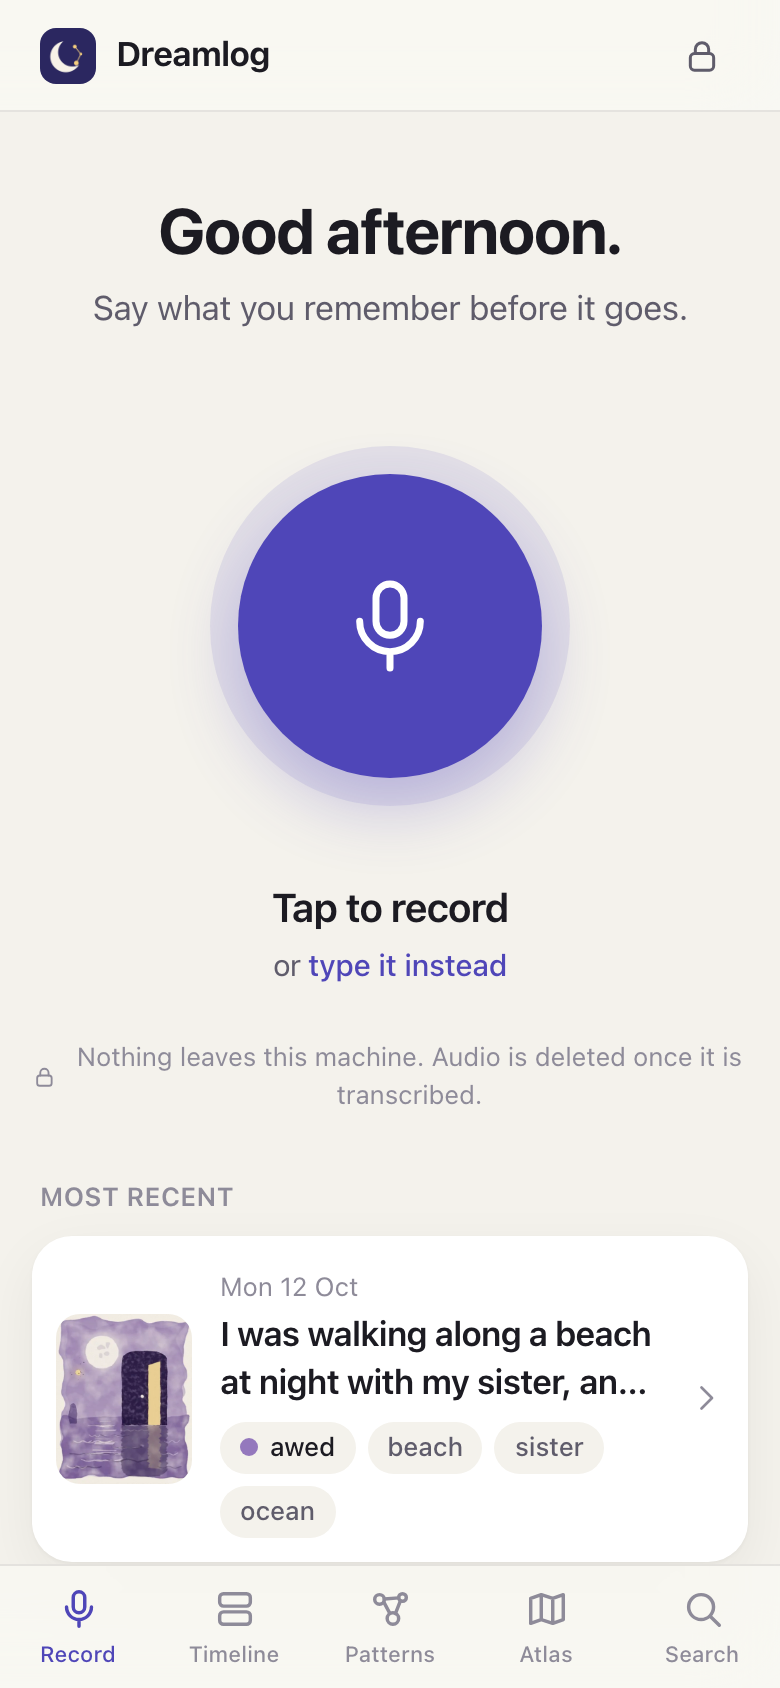
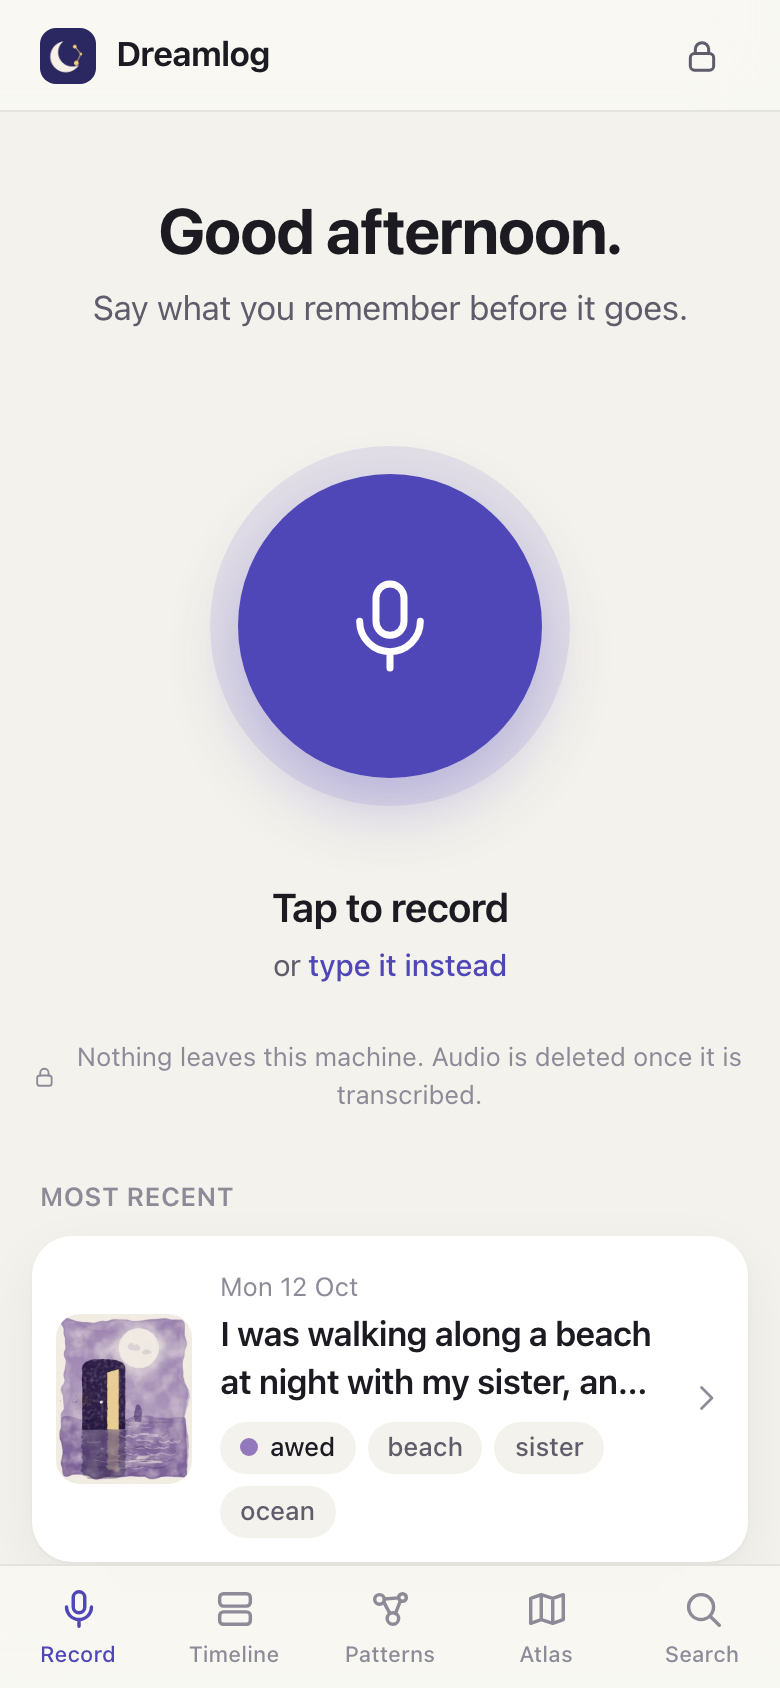
Bind the web server to localhost, refresh the demo and screenshots, and write up the measurements

Changed region(s): [[0.0615, 0.7701, 0.2462, 0.8934]]

diff --git a/NOTES_FOR_README.md b/NOTES_FOR_README.md
@@ -1,0 +1,121 @@
+# Notes for the README
+
+Facts for whoever writes the README. Every number here was measured in the build session on 2026-10-12, on an Apple M5 Pro with 24 GB running macOS 26.5.1, while other projects were building on the same machine (load average around 20 at the end). The command behind each number is given.
+
+## Quickstart
+
+- One command: `make dev`, then open http://localhost:4104.
+- Needs: Docker (for Postgres), Python 3.12, Node 22, make. Nothing else, no keys.
+- What it does: creates `.venv` and installs `api/requirements-dev.txt`, runs `npm ci` in `web/`, starts `pgvector/pgvector:pg16` with plain `docker run` as container `dreamlog-db`, starts the API and the web dev server.
+- Measured from a fresh `git clone` into an empty directory with no container and no model cache: 73 seconds from `make dev` to `/api/health` reporting `models_ready: true`. That includes pip, npm, creating the database container and downloading both models (228 MB in `.cache/models`).
+- `make test` in that same fresh clone: 76 Python tests in 110.6 s, then typecheck and 21 web tests. 97 tests, all passing.
+- `npm run build` in the fresh clone succeeds (9 routes).
+- `make help` lists the other targets: `test-fast`, `lint`, `seed`, `art`, `demo`, `shots`, `stop`, `clean`.
+- Why `make dev` and not `docker compose up`: this machine runs Docker through colima with no compose plugin (`docker: unknown command: docker compose`), so compose could not be tested. A `docker-compose.yml` for the database alone is included and says in its header that it has not been run.
+
+## Ports
+
+- Web 4104 (`WEB_PORT`), API 8104 (`API_PORT`), Postgres 5504 on the host (`DB_PORT`). All three bind to 127.0.0.1.
+- The browser only talks to 4104. `/api/*` is rewritten to the API by `web/next.config.ts`.
+
+## Environment variables
+
+All optional. `.env.example` has every one with its default.
+
+- `WEB_PORT`, `API_PORT`, `DB_PORT`, `WEB_HOST` (default 127.0.0.1), `DREAMLOG_API_URL`
+- `DREAMLOG_DATABASE_URL`, `DREAMLOG_TEST_DATABASE_URL`
+- `DREAMLOG_DATA_DIR` (object store and generated key), `DREAMLOG_MODEL_CACHE_DIR`
+- `DREAMLOG_ENCRYPTION_KEY` (base64 of 32 bytes; empty means generate one into the data directory)
+- `DREAMLOG_KEEP_AUDIO` (default false)
+- `DREAMLOG_TRANSCRIBER` (`faster-whisper` or `fake`), `DREAMLOG_WHISPER_MODEL` (default `base.en`), `DREAMLOG_WHISPER_COMPUTE_TYPE` (default `int8`)
+- `DREAMLOG_EMBEDDER` (`fastembed` or `hash`), `DREAMLOG_EMBEDDING_MODEL`, `DREAMLOG_CANONICAL_THRESHOLD` (default 0.60)
+- `DREAMLOG_EXTRACTOR` (`auto`, `lexicon`, `anthropic`), `DREAMLOG_LLM_MODEL` (default `claude-sonnet-5-5`), `ANTHROPIC_API_KEY`
+- `DREAMLOG_ILLUSTRATOR` (`auto`, `procedural`, `api`), `DREAMLOG_IMAGE_API_URL`, `DREAMLOG_IMAGE_API_KEY`, `DREAMLOG_IMAGE_MODEL`
+- `DREAMLOG_SEARCH_LIMIT` (default 10), `DREAMLOG_SEARCH_FLOOR` (default 0.2)
+
+## What each milestone delivered
+
+- **M1, record, transcribe, edit, save.** One-tap recorder on the home screen (MediaRecorder, WebM/Opus on Chrome, MP4/AAC on Safari), upload, local Whisper, entry saved in one request, transcript editable afterwards, typed entry as a fallback. Transcripts stored as AES-256-GCM ciphertext bound to the entry id. Audio deleted after transcription unless retention is on. 14 tests.
+- **M2, symbols.** Offline extractor (581 lexicon entries in seven kinds, plus a determiner pattern for nouns it does not know), mood tags from cue words with negation, an Anthropic extractor behind the same interface, embeddings with all-MiniLM-L6-v2 through ONNX Runtime, canonicalisation by embedding similarity in pgvector, 30 fixture dreams with labels. 18 tests.
+- **M3, pictures and timeline.** A procedural watercolour painter: 41 hand-written glyphs, 11 mood palettes, SVG filters for washes, rasterised by resvg to WebP. An image API adapter that falls back to the painter. Timeline grouped by month, entry page with picture, transcript and symbols. 25 tests.
+- **M4, patterns.** Recurrence graph (deterministic force layout written for this, no graph library), HDBSCAN clusters with deterministic names, hybrid search, monthly atlas poster with PNG download, export as a zip, delete-all, a privacy screen that says what runs where. 18 tests, plus the latency test and 21 web tests.
+
+## Acceptance tests
+
+| PRD test | Status | Measured | Where |
+|---|---|---|---|
+| "water" and "ocean" merge into one canonical symbol on the 30-dream fixture | Met, on a fixture I wrote | cosine("a water", "an ocean") = 0.653 against a threshold of 0.60. The symbol is named "water", holds lake, ocean, river, sea and water, and is on 8 of the 8 dreams labelled as water imagery (precision 1.00, recall 1.00). Same result in 5 different orderings of the dreams. | `api/tests/test_m2_symbols.py::test_water_and_ocean_merge_into_one_canonical_symbol`, `::test_merging_really_is_by_similarity`, `::test_the_canonical_list_does_not_depend_on_the_order_of_the_dreams` |
+| Semantic search for "being chased" returns the dreams tagged with pursuit | Met, on a fixture I wrote | 10 results returned. All 7 pursuit dreams are in ranks 1 to 7. Precision 0.70, recall 1.00, average precision 1.00, precision in the first 7 is 1.00. Only one of the seven contains the string "chas". | `api/tests/test_m4_patterns.py::test_search_for_being_chased_returns_the_pursuit_dreams` |
+| Delete-all removes every row, file and embedding | Met | Before: 32 entries, 119 symbols, 163 aliases, 211 links, 314 stored vectors, 7 files (pictures, thumbnails, audio, atlas). After: 0 rows in every table in the public schema, 0 non-null values in all 3 vector columns, table files 0 bytes, no file left under the data directory except the key. | `api/tests/test_m4_patterns.py::test_delete_all_removes_every_row_file_and_embedding` |
+| Stop-recording to saved entry under 20 s for a 60 s clip | Met, on synthetic speech | 60.9 s clip, real `faster-whisper base.en` on CPU, 3 warm runs each time. First measurement: median 4.35 s, slowest 4.76 s. Fresh clone, load average about 20: median 5.84 s, slowest 6.69 s. During the full suite with other builds running: median 7.80 s, slowest 9.68 s. Last run by stage: transcribe 2.7 s, paint 1.9 s, embed 0.07 s, canonicalise 0.01 s, extract under 1 ms. Through the web proxy with curl in the fresh clone: 5.57 s and 5.16 s. | `api/tests/test_latency.py` (`cd api && ../.venv/bin/python -m pytest tests/test_latency.py -s`) |
+
+Caveats on that table, all of which belong in the README:
+
+- The 30 dreams and their labels are fiction written for this project. Nobody dreamed them. The search and merge numbers say the pipeline works on that fixture.
+- The speech is the macOS `say` voice Samantha, not a person who has just woken up. Whisper got every word (word match 1.000). Real speech will transcribe worse; it will not take longer.
+- The latency is for a warm server. The first request after start also loads the models.
+- Whisper `tiny.en` took 1.27 s and `small.en` 6.4 s for the same clip (transcription only, measured once each).
+
+## The interesting problems
+
+- **resvg applies a displacement map's scale twice.** The first render had no sky: every wash had vanished. I bisected the filter and found `feDisplacementMap` alone erased a 160 px circle at scale 30. A flat map with a known colour settled it: scales 2, 4, 8, 16 moved a square 2, 8, 32, 128 px where the spec says 1, 2, 4, 8. So the shift is scale squared over two. A noise map with a transparent alpha channel also dragged everything down and right, so the map is made opaque first. The painter now asks for the square root of what it wants (`procedural._disp`), `resvg_py` is pinned to 0.5.0, and `test_resvg_displacement_still_behaves_as_measured` fails if an upgrade changes it. The SVG is therefore only correct when rendered by this resvg; a browser would show less wobble.
+- **Choosing the embedding model and threshold.** 100 hand-labelled pairs (40 that should merge, 60 that should not), deliberately without water/ocean. Five models, three phrasings each. all-MiniLM-L6-v2 with an article ("a door") gave AUC 0.978; the bare word gave 0.952; bge-small gave 0.972 but bunched its scores together (pairs that should stay apart had a median similarity of 0.76). Maximum F1 is 0.951 at 0.60 (precision 0.93, recall 0.97), flat from 0.60 to 0.62. Water/ocean, held out, scored 0.653. `scripts/calibrate_threshold.py` reprints all of it.
+- **The calibration set had a blind spot.** It had synonyms and siblings (dog/cat) but nothing merely associated. On the fixture the model merged dentist into tooth (0.80), teacher into school (0.63) and radio into station (0.68). No threshold separates those from water/ocean at 0.653. The fix is structural: only symbols of the same kind may merge, so a person never joins an object.
+- **Canonicalisation depended on the order of the dreams, and I found out by accident.** The first version compared a new word with each symbol's name and joined the nearest. The latency test happened to print its symbols, and "ocean" and "water" were both there as separate symbols: a warm-up clip had mentioned a river, water joined river (0.68), and ocean, 0.60 short of river, was left alone. Rewrote it as connected components of the same-kind similarity graph, maintained incrementally, with merges when a new word bridges two symbols. A test now loads the 30 dreams in five orders and requires the identical partition. The price is chaining: house, home, apartment, room, bedroom, hall, hotel, attic and roof are one symbol.
+- **Sentence-level search was worse, not better.** I assumed scoring a dream by its best sentence would beat one embedding per dream. For "being chased" it gave average precision 0.52 against 1.00 for whole transcripts: "She kept running ahead and coming back" (a dog) and "I chased a red kite" outranked real pursuit dreams. Kept whole transcripts. The ranking is clean but the margin is not: the seventh pursuit dream scores 0.345 and the best non-pursuit dream 0.336, so there is no honest cut-off and the app shows a top ten. Mean-centring the vectors did not widen the gap.
+- **faster-whisper 1.2.1 and PyAV 19 do not work together.** The first transcription died inside the library with `open() got an unexpected keyword argument 'metadata_errors'`. Audio is now decoded in `api/dreamlog/audio.py` (PyAV, resampled to 16 kHz mono) and passed to Whisper as an array.
+
+## Things that surprised me or that I got wrong first
+
+- `.gitignore` had a bare `data` line, which also ignored `api/dreamlog/data/`. Everything passed locally. The fresh-clone run was the first thing to notice: loading the sample dreams failed with `FileNotFoundError` because the fixture had never been committed.
+- resvg holds the GIL. Eight pictures on four threads took 13.98 s, the same as one after another. Loading the samples uses a process pool and takes 13 to 15 s for 30 pictures.
+- `say` will not speak slower than a floor: rates 128, 132 and 136 all produced 53.5 s. The 60 s clip needed `[[slnc 700]]` pauses between sentences.
+- Headless Chromium feeds its fake microphone slower than real time while screenshots are being taken: a hold of at least 11.4 s recorded only 10 s of a 10.4 s clip, and the transcript ended at "standing in the sa-".
+- pgvector's psycopg adapter returns its own `Vector` type, not a numpy array.
+- The mood colour for the October atlas came out red ("angry") from an alphabetical tie-break among five moods with one dream each. The rule is now: commonest mood, ties to the more recent dream.
+- Showing the canonical name on an entry was wrong: a dream about a grandfather was labelled "grandmother". Entries now show the word that was said; the grouping only shows on the patterns screen.
+
+## Limitations, bluntly
+
+- Nothing here was tested on real dreams or real morning speech. English only.
+- The offline extractor is a word list and one grammar pattern. It finds things, not events: "being chased" is not a symbol, which is why that query is answered by meaning alone. Its 0.927 precision and 1.000 recall are on dreams written by the person who wrote the word list.
+- Symbol merging over-merges. On the fixture, 163 surface forms become 119 symbols through 19 merged groups. By my own reading 7 are right (water with ocean, sea, lake, river; coat with jacket; child with baby), 6 have a right core with something chained on that should not be there (house with hotel; street with city; sun with sunflower), and 6 are wrong (mother, father and both grandparents as one symbol; brother with sister; kettle with tea; animal, bird, dog and wolf). There is no way to split or merge by hand.
+- Deleting or editing a dream removes its words but never splits a symbol that a deleted word had bridged.
+- The Anthropic extractor, the Anthropic cluster namer and the image API adapter have never run against the real services. There was no key. They are tested with stub clients only.
+- Search has no relevance threshold worth the name. Precision at ten for the pursuit query is 0.70.
+- HDBSCAN leaves about half the symbols unclustered (56 of 119 in the demo database) and names each cluster after its most central member, which gives labels like "seat" for aisle, bed, cabin, seat, ticket.
+- Privacy has edges. Embeddings, symbol names, mood tags and dates are not encrypted, so a copy of the database shows which symbols recur and roughly what each dream was about. With no key configured, the key is generated and stored next to the data. The recording sits unencrypted in a temp file for the seconds transcription takes. Delete-all does not scrub Postgres WAL or backups. There are no accounts: anyone who can reach the port can read everything, which is why both servers bind to localhost.
+- A phone can only record over HTTPS or localhost, and no HTTPS setup is provided, so recording has only been exercised on this machine, in headless Chromium with a fake microphone.
+- The service worker registers only in a production build and caches the shell only. A dream cannot be recorded offline.
+- Atlas months are cut in UTC on the server; the timeline groups in the browser's time zone.
+- A picture takes 1.8 to 2.3 s to paint and the first request for an atlas poster about 5 s (2.6 MB PNG), cached afterwards. No pagination anywhere. The graph and clusters are recomputed on each request.
+- The painter knows 41 glyphs. Anything else becomes a small floating light. People are never drawn; they become standing stones.
+- `docker compose` and the GitHub Actions workflow have not been run. CI uses `tiny.en` so the latency test fits on a two-core runner.
+- Not deployed.
+
+## Next three ideas
+
+- Let the owner split and merge symbols, and feed those decisions back into canonicalisation as must-link and cannot-link constraints.
+- An offline queue: keep a recording in IndexedDB when the server is unreachable and process it later, plus a local HTTPS certificate so a phone can record.
+- Derive the key from a passphrase in the browser and decrypt there, so the server never holds plaintext, and look at what can replace plaintext embeddings.
+
+## Real and stand-in
+
+- Real, and exercised: Whisper transcription (faster-whisper `base.en`, local), MiniLM embeddings (fastembed, ONNX Runtime, no PyTorch), pgvector storage and similarity queries, HDBSCAN (scikit-learn), AES-256-GCM encryption, the procedural painter (the default by design), the browser recording path (driven for real in the demo).
+- Offline default standing in for an LLM: symbol and mood extraction (lexicon), cluster naming (most central member).
+- Written but never run against the real thing: `AnthropicExtractor`, `AnthropicNamer`, `ApiIllustrator`.
+- Synthetic data: the 30 dreams and their labels, the three speech clips (`say`), the 100 calibration pairs.
+- Interim art: all 11 design-time images in `assets/interim` are drawn in code; each is requested in `assets/prompts.md`. None delivered.
+
+## Files in docs/
+
+- `demo.gif`: 30 s, 390 by 760, 0.72 MB. The real app in headless Chromium: record with a fake microphone, Whisper transcript and painting appear, keep the entry, timeline, patterns with water selected, search for "being chased", atlas.
+- `record-phone.png`: the home screen at phone width, one record button.
+- `timeline-phone.png`: the timeline with thumbnails, moods and symbols.
+- `entry-desktop.png`: one entry, picture beside transcript and symbols.
+- `patterns-desktop.png`: the recurrence graph with "water" selected, and the patterns-only notice.
+- `search-desktop.png`: results for "being chased" with similarity scores.
+- `atlas-desktop.png`: the September 2026 atlas with its six symbols and the download button.
+- `privacy-phone.png`: the privacy screen, what runs where and what is encrypted.
+- `illustrations.jpg`: eight entry illustrations side by side, one per mood colour.
+- `atlas-2026-09.jpg`: the September poster on its own.
